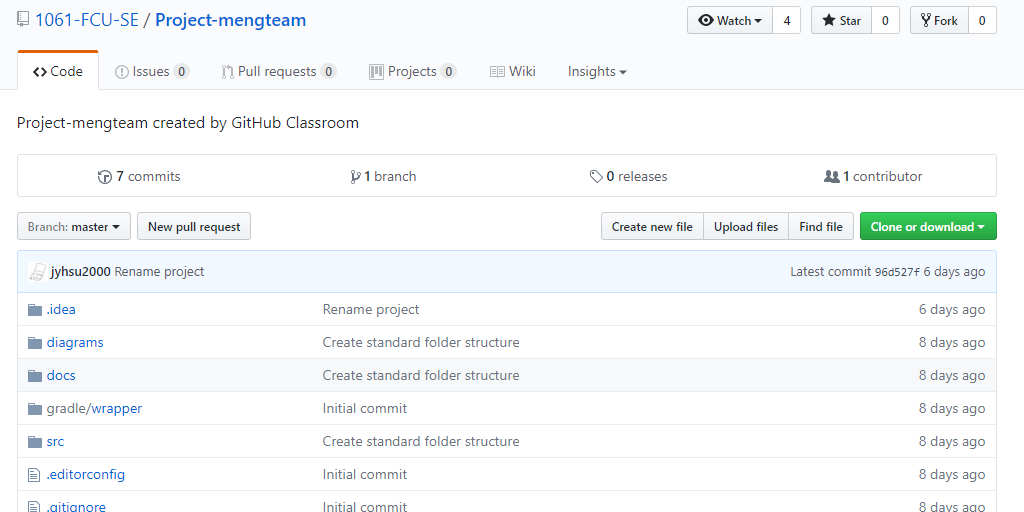
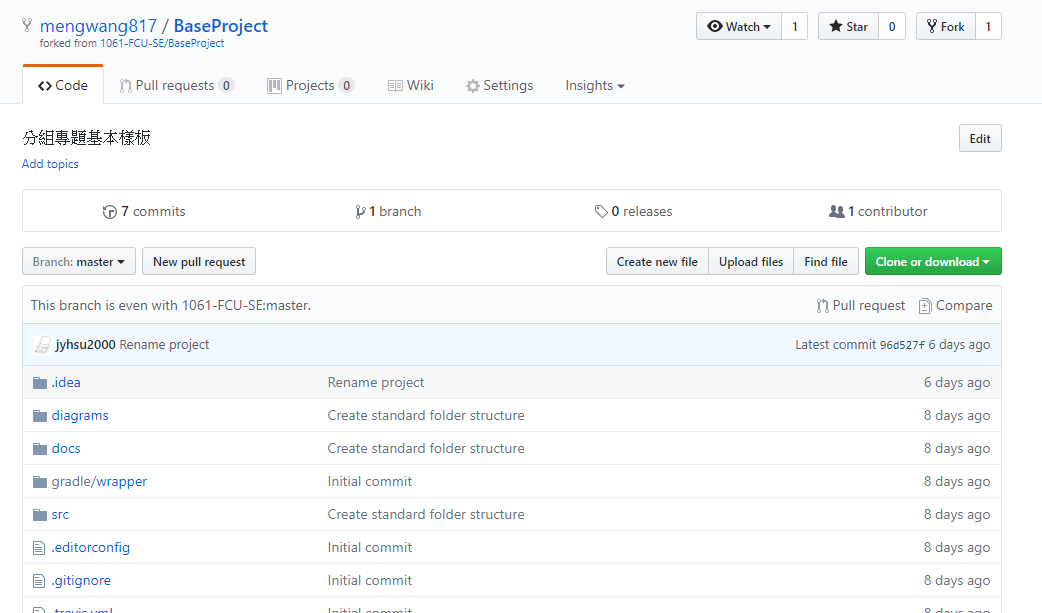
Update GitHub.md

diff --git a/GitHub.md b/GitHub.md
@@ -1,6 +1,7 @@
 # GitHub 基本用法
 - [帳號註冊](#帳號註冊)
-- [建立與加入隊伍](#建立與加入隊伍)
+- [建立小組專案](#建立小組專案)
+- [將其他組員設定為協作者](#將其他組員設定為協作者)
 - [上傳檔案](#上傳檔案)
 
 ## 帳號註冊
@@ -16,25 +17,31 @@
 6. 完成後會看到以下畫面
 ![](./img/GitHub/register_05.png)
 
-## 建立與加入隊伍
-1. 點擊 iLearn 所公布之超連結  
-![](./img/GitHub/team_01.png)
-2. 進入 OAuth 授權頁面，點擊 `Authorize github` 進行授權  
-![](./img/GitHub/team_02.png)
-3. 進入 GitHub Classroom 頁面後，可以建立隊伍或加入隊伍，  
-![](./img/GitHub/team_03.png)
-    - 建立隊伍
-        1. 輸入隊伍名稱，並點擊 `Create team` 即可建立隊伍  
-![](./img/GitHub/team_04.png)
-        2. 出現以下畫面，代表隊伍已建立完成  
-![](./img/GitHub/team_05.png)
-        3. 同時，系統已自動建立隊伍作業專案  
-![](./img/GitHub/team_06.png)
-    - 加入隊伍
-        1. 找到想加入的隊伍，點擊 `Join` 即可加入隊伍  
-![](./img/GitHub/team_07.png)
-        2. 出現以下畫面，代表已經加入隊伍，此時即可存取隊伍作業專案  
-![](./img/GitHub/team_08.png)
+## 建立小組專案
+1. 進入課程提供之專案  
+![](./img/GitHub/create_team_01.png)
+2. 按下 `Fork` ，若出現以下視窗，請選擇自己的帳號  
+![](./img/GitHub/create_team_02.png)
+3. 等待專案建立  
+![](./img/GitHub/create_team_03.png)
+3. 進入剛建立的專案，由專案名稱確認，該專案是由課程提供之專案fork出來的  
+![](./img/GitHub/create_team_04.png)
+
+## 將其他組員設定為協作者
+1. 點擊 `Settings` → `Collaborators` 進入協作者設定頁面  
+![](./img/GitHub/collaborator_01.png)
+2. 輸入隊員帳號，並按下 `Add collaborator`  
+![](./img/GitHub/collaborator_02.png)
+3. 等待隊員接受邀請  
+（可請隊員收信並點擊通知信件中的連結，或點擊 `Copy invite link` 複製連結請隊員點擊）  
+![](./img/GitHub/collaborator_03.png)  
+![](./img/GitHub/collaborator_04.png)
+4. 隊員點擊 `Accept invitation` 接受邀請連結，並成為協作者  
+![](./img/GitHub/collaborator_05.png)
+5. 當隊員看到以下訊息，即表示已成為該專案之協作者  
+![](./img/GitHub/collaborator_06.png)
+
+
 
 ## 上傳檔案
 1. 進入隊伍作業專案  
